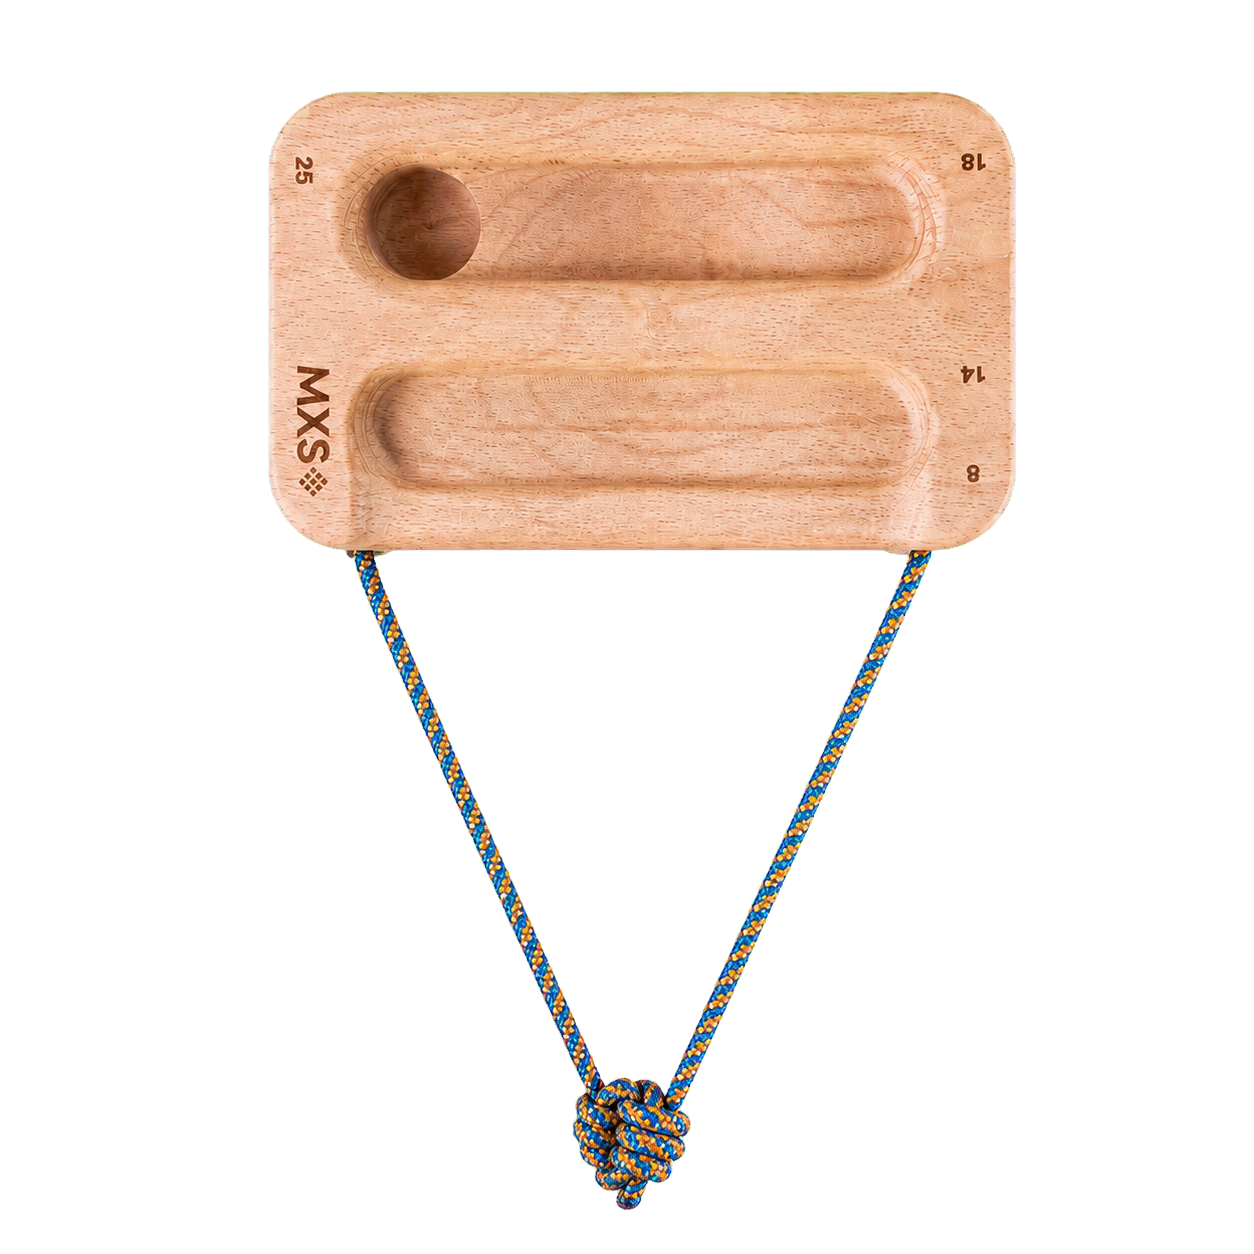
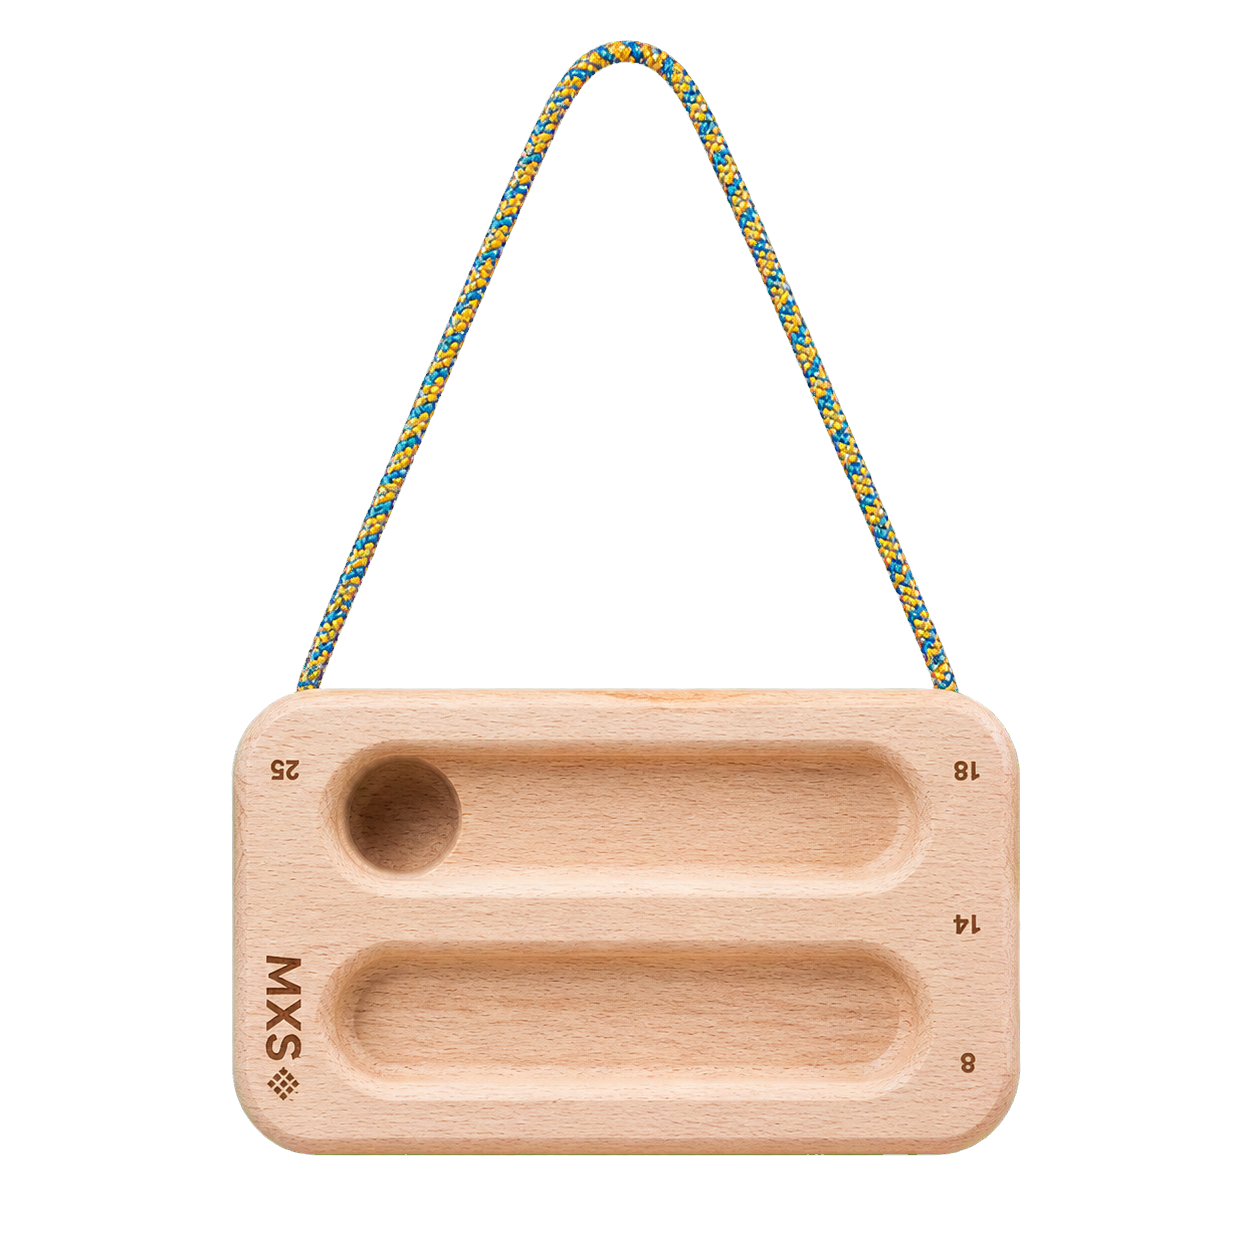
Correct lifting-board cord direction

diff --git a/docs/superpowers/plans/2026-09-01-tensioned-hangboard-cords-full-render.md b/docs/superpowers/plans/2026-09-01-tensioned-hangboard-cords-full-render.md
@@ -21,7 +21,7 @@
 - Every accepted PNG is generated as one complete new scene: board body, cords, knots, hardware, relief, and material together. Do not edit the existing raster, overlay cords, composite candidates, crop, resize, rotate, register, align, warp, paint, sharpen, blur, color-grade, relight, or patch an output. Deterministic chroma removal and its bounded edge decontamination are the only output processing.
 - Every official manufacturer photograph found for the exact revision is actual referenced-image input to every generation call. URLs or prompt descriptions do not count. When more than five photographs exist, use at most five verified lossless atlas pages; no panel may be cropped, resampled, warped, rotated, recolored, retouched, or recompressed.
 - Generate exactly two initial candidates for each unique PNG. Permit one targeted third only after both initial candidates have concrete recorded rejection reasons. If the third fails, block the asset; never continue aesthetic retries.
-- Gravity is normalized canvas down, `(0, +1)`. Loaded segments are taut along the manufacturer-supported load path. Ordinary suspended boards pull toward an overhead support; lifting/no-hang tools pull toward a load below; the Mini Bar retains its documented exterior sling; Rock Rings and Penta retain independent suspensions. Do not transfer routing between products.
+- Gravity is normalized canvas down, `(0, +1)`. Every depicted board remains below its suspension/support while the climber loads it downward from below. Every force-bearing cord or strap branch leaves the board taut upward toward overhead support, and no load-bearing cord, tail, knot, or hardware appears below the board. The Mini Bar retains its documented exterior-body sling attachment routing without a below-board load path; Rock Rings and Penta retain independent overhead suspensions. Do not transfer routing between products.
 - Rotate the physical board, not gravity. Concave recesses remain concave. Source/alias bodies retain identical scale, normalized position, aspect ratio, silhouette, and relief. Reject generator drift instead of compensating with per-hold offsets.
 - Hold geometry is authored and reviewed manually. Do not use detection, segmentation, masks, contours, image registration/alignment, vectorization, automatic path simplification, automatic cropping, or proposal/refine/promote geometry workflows. The saved canonical path remains the only rendering, highlighting, and hit-testing source.
[1 lines of base64/hex data omitted]
@@ -87,11 +87,11 @@ The presentation IDs and paths below are the checked-in starting inventory. A pr
 | O4 | overhead | `yy-baguette-evo` | `paired-25-20-15-10`, `paired-12-8-6`, `central-30-25`, `central-20-6`, `rounded-tray` | 5 | 5 | Five named contact configurations without blending surfaces |
 | O4 | overhead | `yy-travelboard` | `front-25-15`, `reverse-10` | 2 | 2 | Replace current partial/slack loops with evidence-backed taut routing |
 | O4 | overhead aliases | `tension-flash-board` | `three-edge-upright`, `three-edge-inverted`, `two-edge-upright`, `two-edge-inverted` | 4 | 4 | Preserve concavity, complete both source/alias pairs, prove pilot provenance |
-| N | evidence-selected | `frictitious-nug` | `primary`, `reverse` | 2 | 2 | Establish lifting versus overhead mode independently for each presentation before prompting |
-| L | load below | `lattice-mxedge-lift-large` | `primary`, `large-medium-edge-position`, `mono-position` | 3 | 3 | Loaded cord points canvas down; exact large-size revision and positions |
-| L | load below | `lattice-mxedge-lift-small` | `primary`, `large-medium-edge-position`, `mono-position` | 3 | 3 | Loaded cord points canvas down; exact small-size revision and positions |
-| L | load below | `plateau-lifting-edge` | `primary` | 1 | 1 | Loaded strand/weight direction below; no overhead default |
-| S | exterior sling | `lattice-mini-bar` | `edge-10`, `edge-20`, `ergonomic-jug`, `mini-pinch` | 4 | 4 | Preserve manufacturer-documented lower/outer U-bights on all positions |
+| N | evidence-selected overhead routing | `frictitious-nug` | `primary`, `reverse` | 2 | 2 | Establish exact attachment topology independently for each presentation; loaded branches resolve upward |
+| L | straps-up lifting edge | `lattice-mxedge-lift-large` | `primary`, `large-medium-edge-position`, `mono-position` | 3 | 3 | Every force-bearing strap points canvas up; exact large-size revision and positions |
+| L | straps-up lifting edge | `lattice-mxedge-lift-small` | `primary`, `large-medium-edge-position`, `mono-position` | 3 | 3 | Every force-bearing strap points canvas up; exact small-size revision and positions |
+| L | straps-up lifting edge | `plateau-lifting-edge` | `primary` | 1 | 1 | Board below support; every force-bearing strap points canvas up |
+| S | exterior sling | `lattice-mini-bar` | `edge-10`, `edge-20`, `ergonomic-jug`, `mini-pinch` | 4 | 4 | Preserve manufacturer-documented lower/outer body sling contact while every loaded return branch runs upward |
 | I | independent units | `metolius-rock-rings-3d` | `front-pair` | 1 | 1 | Each ring has its own suspension; no unsupported bridge |
 | I | independent units | `yy-penta-evo` | `front-pair` | 1 | 1 | Each unit has its own suspension and identical exact-revision pair identity |
 | P | optional portable | `frictitious-port-a-board` | `primary`, `front-inverted`, `cord-option-4-20mm-incut`, `back`, `back-inverted`, `side` | 6 | 5 | Portable cord mode only; option 4 starts evidence-blocked and shares `assets/front-inverted.png` |
@@ -124,7 +124,7 @@ Every product worker produces this exact untracked shape and never writes a trac
 
 `OWNERSHIP.json` records `owner: "joyful-donkey"`, package slug, absolute directory, creator task, created time, exact external handles, cleanup command, and cleanup verification. `packet.json` is closed-schema and records the package ID, all presentation IDs, all unique asset paths, SHA-256 for every file, ordered reference list for every call, candidate dispositions, and the independent reviewer decision.
 
-Each `contracts/{presentation-id}.json` is manually authored after reviewing all evidence and contains: exact revision; usable surface; material; gravity `[0, 1]`; mechanical family; loaded object; support/load direction; each visible attachment point; ordered hole/body traversal; supported knots, bights, crossings, independent strands, and short tails; taut segments; forbidden topology; silhouette/contact inventory; and relief constraints. An unknown fact is a named evidence blocker, not an inferred value.
+Each `contracts/{presentation-id}.json` is manually authored after reviewing all evidence and contains: exact revision; usable surface; material; gravity `[0, 1]`; mechanical family; loaded object; downward climber-load direction; overhead support direction; each visible attachment point; ordered hole/body traversal; supported knots, bights, crossings, independent strands, and short tails; taut segments; forbidden topology; silhouette/contact inventory; and relief constraints. Every contract keeps the board below support, every force-bearing branch upward, and every cord, tail, knot, and hardware component out of the area below the board. An unknown fact is a named evidence blocker, not an inferred value.
 
 ## Task 0: Establish the Owned Baseline and Known-Red Historical Preflight
 
@@ -643,9 +643,9 @@ rtk scripts/hangboard-packages.sh cord-assets lock --manifest .context/joyful-do
 rtk scripts/hangboard-packages.sh cord-assets atlas --manifest .context/joyful-donkey-cords-aelith-cyclops-011-run-1/sources/index.json --output-root .context/joyful-donkey-cords-aelith-cyclops-011-run-1/atlases
 ```
 
-- [ ] **P4 — Manually author every presentation contract.** Write the fields in Ownership and Product Packet Contract from primary evidence. Trace every attachment, loaded segment, knot/bight/crossing, surface, and concavity claim to an exact source ID. Never derive topology from the current asset, presentation name, another product, or model intuition. A contract with an unresolved force path blocks generation for that presentation.
+- [ ] **P4 — Manually author every presentation contract.** Write the fields in Ownership and Product Packet Contract from primary evidence. Trace every attachment, loaded segment, knot/bight/crossing, surface, and concavity claim to an exact source ID. Apply the presentation invariant explicitly: gravity canvas-down, board below overhead support, climber loading downward from below, all force-bearing branches taut upward, and no cord, tail, knot, or hardware below the board. Never derive topology from the current asset, presentation name, another product, or model intuition. A contract with unresolved attachment routing blocks generation for that presentation.
 
-- [ ] **P5 — Generate exactly two whole-image candidates per unique PNG.** Use the built-in image generation tool in new-image mode. Every call's `referenced_image_paths` is the exact complete ordered official input set from P3. The prompt names the exact revision, usable surface, manually authored load path, canvas-down gravity, required aspect/composition, identity/relief constraints, flat chroma key, and forbidden topology/background. It explicitly requests a new complete board-and-cord render and forbids cord overlay or source-image editing. Save raw outputs and record full prompt, exposed model/tool version, time, ordered reference hashes, output hash, and dimensions.
+- [ ] **P5 — Generate exactly two whole-image candidates per unique PNG.** Use the built-in image generation tool in new-image mode. Every call's `referenced_image_paths` is the exact complete ordered official input set from P3. The prompt names the exact revision, usable surface, manually authored attachment routing, canvas-down gravity, board below overhead support, downward climber load from below, every force-bearing branch taut upward, no cord/tail/knot/hardware below the board, required aspect/composition, identity/relief constraints, flat chroma key, and forbidden topology/background. It explicitly requests a new complete board-and-cord render and forbids cord overlay or source-image editing. Save raw outputs and record full prompt, exposed model/tool version, time, ordered reference hashes, output hash, and dimensions.
 
 - [ ] **P6 — Apply only deterministic chroma removal.** Run `cord-assets key` to a new RGBA path and `cord-assets inspect` on it. Do not change dimensions or any other pixels. If the product contains the default green, choose and record a flat alternative key before generation; never key away product material.
 
@@ -772,13 +772,13 @@ Expected: these four records are accepted with four screenshots; every other rec
 
 **Interfaces:** Two presentations/assets; four mandatory initial candidates, at most two targeted thirds. Mechanical family is selected from evidence per presentation, never defaulted catalog-wide.
 
-- [ ] **Step 1: Dispatch one fresh evidence/product worker.** Before a generation call, establish whether each exact presentation is lifting/load-below, suspended/overhead, or another manufacturer-documented mode. If first-party evidence cannot establish the force path, mark that presentation `blockedEvidence` and issue no call.
+- [ ] **Step 1: Dispatch one fresh evidence/product worker.** Before a generation call, establish each exact presentation's manufacturer-supported attachment topology while applying the shared straps-up composition: board below overhead support, downward climber load from below, and all force-bearing branches upward. If first-party evidence cannot establish the attachment routing, mark that presentation `blockedEvidence` and issue no call.
 - [ ] **Step 2: For evidence-complete presentations, execute P1–P9 and obtain a fresh P10 review.** The reviewer checks force direction independently for `primary` and `reverse`.
 - [ ] **Step 3: Dispatch one serial integration agent for P11–P14.** Do not promote one face as a substitute for an unresolved other face.
 - [ ] **Step 4: Run partial audit for `frictitious.nug`.** Expected: two accepted records or an explicit evidence block that prevents final completion; no inferred routing.
 - [ ] **Step 5: Commit accepted/audited work, push, and clean via P15.** Use commit message `Render evidence-selected NUG cord modes` only when both records are accepted; otherwise use `Record NUG cord evidence blocker` and report the blocker to the user before final acceptance.
 
-## Task 14: Generate and Integrate Load-Below Wave L
+## Task 14: Generate and Integrate Straps-Up Lifting-Edge Wave L
 
 **Files:**
 - Replace: `Hangboards/lattice-mxedge-lift-large/assets/primary.png`, `assets/large-medium.png`, `assets/mono.png`
@@ -788,13 +788,13 @@ Expected: these four records are accepted with four screenshots; every other rec
 - Modify: cord audit JSON/narrative
 - Create: seven corresponding highlighted screenshots
 
-**Interfaces:** Seven presentations/assets; 14 mandatory initial candidates, at most seven targeted thirds. All force-bearing cord directions point toward a load below.
+**Interfaces:** Seven presentations/assets; 14 mandatory initial candidates, at most seven targeted thirds. Every board is below overhead support while the climber loads downward from below; all force-bearing cord/strap branches point canvas up.
 
 - [ ] **Step 1: Dispatch exactly three fresh product workers.** Assign MXEdge Large, MXEdge Small, and Plateau. Execute P1–P9. Large and small revisions remain separate evidence sets.
-- [ ] **Step 2: Dispatch fresh reviewers.** Execute P10. Reject any overhead bridle introduced from the suspended-board family or any missing load-side strand.
+- [ ] **Step 2: Dispatch fresh reviewers.** Execute P10. Reject any force-bearing branch that points downward, any cord/tail/knot/hardware below the board, any unsupported generic bridle, or any missing evidence-backed attachment branch.
 - [ ] **Step 3: Dispatch one serial integration/geometry agent for P11–P14.** Manually review the geometry of every named edge/mono position.
-- [ ] **Step 4: Run partial audit for the three load-below package IDs.** Expected: seven accepted records/screenshots.
-- [ ] **Step 5: Commit, push, and clean via P15.** Use commit message `Render load-below hangboard cords`.
+- [ ] **Step 4: Run partial audit for the three straps-up lifting-edge package IDs.** Expected: seven accepted records/screenshots.
+- [ ] **Step 5: Commit, push, and clean via P15.** Use commit message `Render straps-up lifting-edge cords`.
 
 ## Task 15: Generate and Integrate Exterior-Sling Wave S
 
@@ -804,11 +804,11 @@ Expected: these four records are accepted with four screenshots; every other rec
 - Modify: cord audit JSON/narrative
 - Create: four corresponding highlighted screenshots
 
-**Interfaces:** Four presentations/assets; eight mandatory initial candidates, at most four targeted thirds. Documented lower/outer U-bights are required product mechanics, not a failure.
+**Interfaces:** Four presentations/assets; eight mandatory initial candidates, at most four targeted thirds. Documented exterior-body sling contact is required product mechanics, but every force-bearing return branch leaves upward and nothing hangs below the board.
 
 - [ ] **Step 1: Dispatch one fresh Mini Bar worker for P1–P9.** Author a separate load/relief contract for `edge-10`, `edge-20`, `ergonomic-jug`, and `mini-pinch` from exact official evidence.
 - [ ] **Step 2: Dispatch a fresh specialist reviewer.** Execute P10 and explicitly retain evidence-backed exterior body slings while rejecting unsupported knot/hole changes.
-- [ ] **Step 3: Dispatch one serial integration/geometry agent for P11–P14.** Do not apply the ordinary “no cord below body” heuristic to this package.
+- [ ] **Step 3: Dispatch one serial integration/geometry agent for P11–P14.** Preserve the evidence-backed exterior-body sling contact while enforcing the same no-cord/tail/knot/hardware-below-board invariant as every other package.
 - [ ] **Step 4: Run partial audit for `lattice.mini-bar`.** Expected: four accepted records/screenshots.
 - [ ] **Step 5: Commit, push, and clean via P15.** Use commit message `Render Mini Bar exterior cord slings`.
 

diff --git a/docs/superpowers/specs/2026-09-01-tensioned-hangboard-cords-full-render-design.md b/docs/superpowers/specs/2026-09-01-tensioned-hangboard-cords-full-render-design.md
@@ -11,12 +11,14 @@ transparency and no wall, floor, studio sweep, or baked background.
 
 This is a product-physics correction, not a generic cord overlay. Each render
 must show the exact product revision and the real routing for the depicted
-usable surface. The loaded cord path must be taut in the direction appropriate
-to that product: toward an overhead support for a suspended board, toward a
-load below for a lifting edge, or through another manufacturer-documented load
-path. Rotating a board to another usable surface rotates the physical board,
-not gravity. Recesses remain recesses after rotation; a concave edge or pocket
-must never become a convex bump.
+usable surface. Every depicted board is below its suspension or support while
+the climber loads it downward from below. Every force-bearing cord or strap
+branch therefore leaves the board taut toward an overhead support, with no
+load-bearing cord, tail, knot, or hardware below the board. Product-specific
+hole, sling, knot, and branch routing remains evidence-backed within that
+straps-up orientation. Rotating a board to another usable surface rotates the
+physical board, not gravity. Recesses remain recesses after rotation; a concave
+edge or pocket must never become a convex bump.
 
 ## Scope and inventory
 
@@ -43,16 +45,16 @@ all 20 packages, all 49 presentations, and all 48 unique PNGs.
 | `captain-fingerfood-pocket` | `captain-fingerfood.pocket` | 1 | 1 | overhead suspension |
 | `captain-fingerfood-unlevel` | `captain-fingerfood.unlevel` | 2 | 2 | overhead suspension |
 | `crimptonite-helium-mobile` | `crimptonite.helium-mobile` | 4 | 4 | overhead suspension |
-| `frictitious-nug` | `frictitious.nug` | 2 | 2 | evidence-selected lifting or suspension mode |
+| `frictitious-nug` | `frictitious.nug` | 2 | 2 | evidence-selected overhead attachment routing |
 | `frictitious-port-a-board` | `frictitious.port-a-board` | 6 | 5 | optional portable cord mode |
 | `lattice-mini-bar` | `lattice.mini-bar` | 4 | 4 | documented exterior body sling |
-| `lattice-mxedge-lift-large` | `lattice.mxedge-lift-large` | 3 | 3 | lifting/no-hang, load below |
-| `lattice-mxedge-lift-small` | `lattice.mxedge-lift-small` | 3 | 3 | lifting/no-hang, load below |
+| `lattice-mxedge-lift-large` | `lattice.mxedge-lift-large` | 3 | 3 | lifting/no-hang tool, straps up to overhead support |
+| `lattice-mxedge-lift-small` | `lattice.mxedge-lift-small` | 3 | 3 | lifting/no-hang tool, straps up to overhead support |
 | `metolius-light-rail-2` | `metolius.light-rail-2` | 2 | 2 | overhead suspension |
 | `metolius-rock-rings-3d` | `metolius.rock-rings-3d` | 1 | 1 | independently suspended units |
 | `nature-stone-hanger-mini` | `nature.stone-hanger-mini` | 2 | 2 | overhead suspension |
 | `nature-stone-hanger-mini-karma8a` | `nature.stone-hanger-mini-karma8a` | 1 | 1 | overhead suspension |
-| `plateau-lifting-edge` | `plateau.lifting-edge` | 1 | 1 | lifting/no-hang, load below |
+| `plateau-lifting-edge` | `plateau.lifting-edge` | 1 | 1 | lifting/no-hang tool, straps up to overhead support |
 | `tension-flash-board` | `tension.flash-board` | 4 | 4 | overhead suspension |
 | `yy-baguette` | `yy.baguette` | 2 | 2 | overhead suspension |
 | `yy-baguette-evo` | `yy.baguette-evo` | 5 | 5 | overhead suspension |
@@ -93,22 +95,26 @@ bights, or independent strands are supported by evidence.
 A loaded segment is visually taut. Straight runs may bend at a documented
 hole, knot, pulley-like contact, or body sling, but may not sag, float, coil,
 or terminate without a supported reason. A short free tail may appear only
-when first-party evidence establishes it and it cannot be mistaken for the
-loaded path. The scene never changes gravity to make a composition convenient.
+when first-party evidence establishes it, it remains above the board as part
+of the upward attachment assembly, and it cannot be mistaken for the loaded
+path. The scene never changes gravity to make a composition convenient.
 
-- For overhead-suspended boards, the board hangs below its support and the
-  loaded branches leave the board toward the top of the canvas. The attachment
-  may use holes, stopper knots, loops, or a bridle only as shown by the exact
-  product evidence.
-- For the Lattice MXEdge Lift sizes and Plateau Lifting Edge, the loaded strand
-  or attached weight direction is below the tool, so the force-bearing cord
-  points canvas down. Frictitious NUG may be used in more than one mode; each
-  presentation uses only the mode established by its evidence rather than a
-  catalog-wide default.
-- The Lattice Mini Bar is a documented exterior-sling exception. Its cord can
-  form real U-shaped bights around the lower or outer body. Those bights must
-  be retained and must not be rejected merely for passing below the product.
-  This exception does not authorize bottom wrapping on any other board.
+- For every board, including lifting/no-hang tools, the board hangs below its
+  support while the climber applies the downward load from below. Loaded
+  branches leave the board toward the top of the canvas. The attachment may
+  use holes, stopper knots, loops, or a bridle only as shown by exact product
+  evidence, but no load-bearing cord, tail, knot, or hardware appears below
+  the board.
+- The Lattice MXEdge Lift sizes and Plateau Lifting Edge retain their exact
+  product identity and named usable positions while being presented straps-up:
+  every force-bearing strap runs taut upward toward overhead support.
+  Frictitious NUG retains the attachment topology established independently
+  for each presentation, but its visible loaded branches also resolve upward.
+- The Lattice Mini Bar retains its documented exterior-body sling routing.
+  Evidence-backed U-shaped bights may wrap the lower or outer body as the
+  attachment interface, but their force-bearing return branches must leave the
+  board upward and no cord, tail, knot, or hardware may hang below the board.
+  This exception does not authorize generic bottom wrapping on any other board.
 - Metolius Rock Rings 3D and YY Penta Evo consist of independent units. Each
   unit keeps its own documented suspension and load path; generation must not
   merge them into one unsupported bridge or make one unit hang from the other.
@@ -437,8 +443,9 @@ distinct capture per record even when two records currently share a PNG.
 Roll out in mechanically coherent, reviewable batches rather than one catalog
 replacement. Land the backward-compatible alias-anchor model and tests first.
 Then complete evidence and render packets by family: ordinary overhead
-suspension; lifting/no-hang tools; exterior sling; and independent-unit
-suspension. Within a batch, promote only independently reviewed packages and
+suspension; straps-up lifting/no-hang tools; exterior sling; and
+independent-unit suspension. Every family keeps the board below overhead
+support. Within a batch, promote only independently reviewed packages and
 rerun the complete package inventory so an undeclared or half-written package
 cannot enter the app.
 
@@ -486,8 +493,9 @@ The change is complete only when all of the following are true:
   generation whose call actually received the complete verified official
   manufacturer photo set for the exact revision.
 - Every visible loaded cord follows the presentation's evidence-backed
-  topology and canvas-down gravity contract, including the lifting-tool,
-  Mini-Bar sling, and independent-unit exceptions.
+  topology and canvas-down gravity contract: the board remains below support,
+  the climber loads downward from below, and every force-bearing branch leaves
+  upward, including lifting-tool, Mini-Bar sling, and independent-unit routing.
 - All promoted assets are genuine RGBA transparency with clear corners and no
   chroma or off-white fringe, and no output transform other than documented
   chroma removal occurred.
